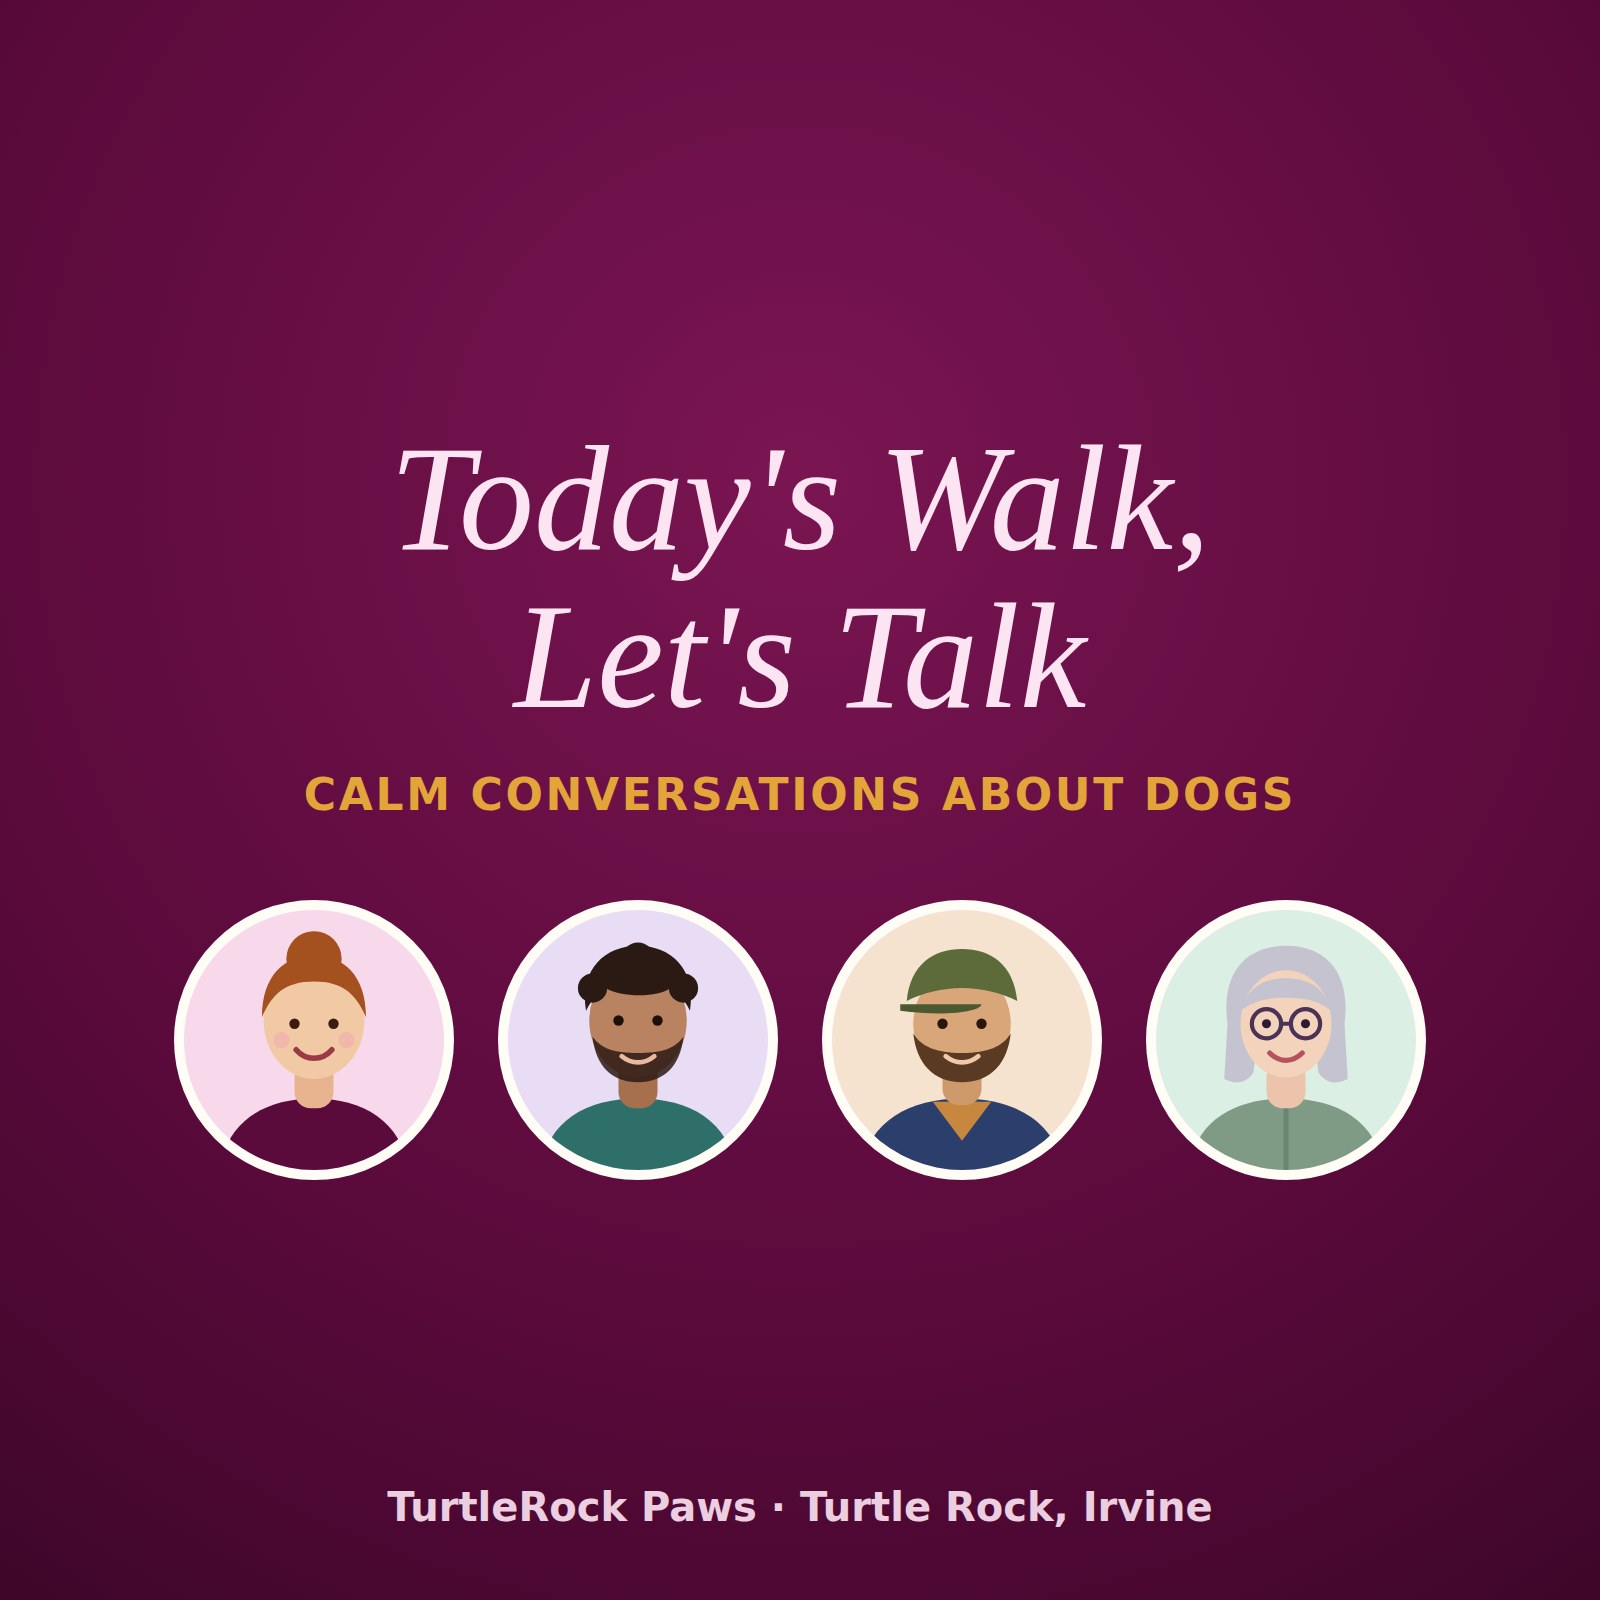
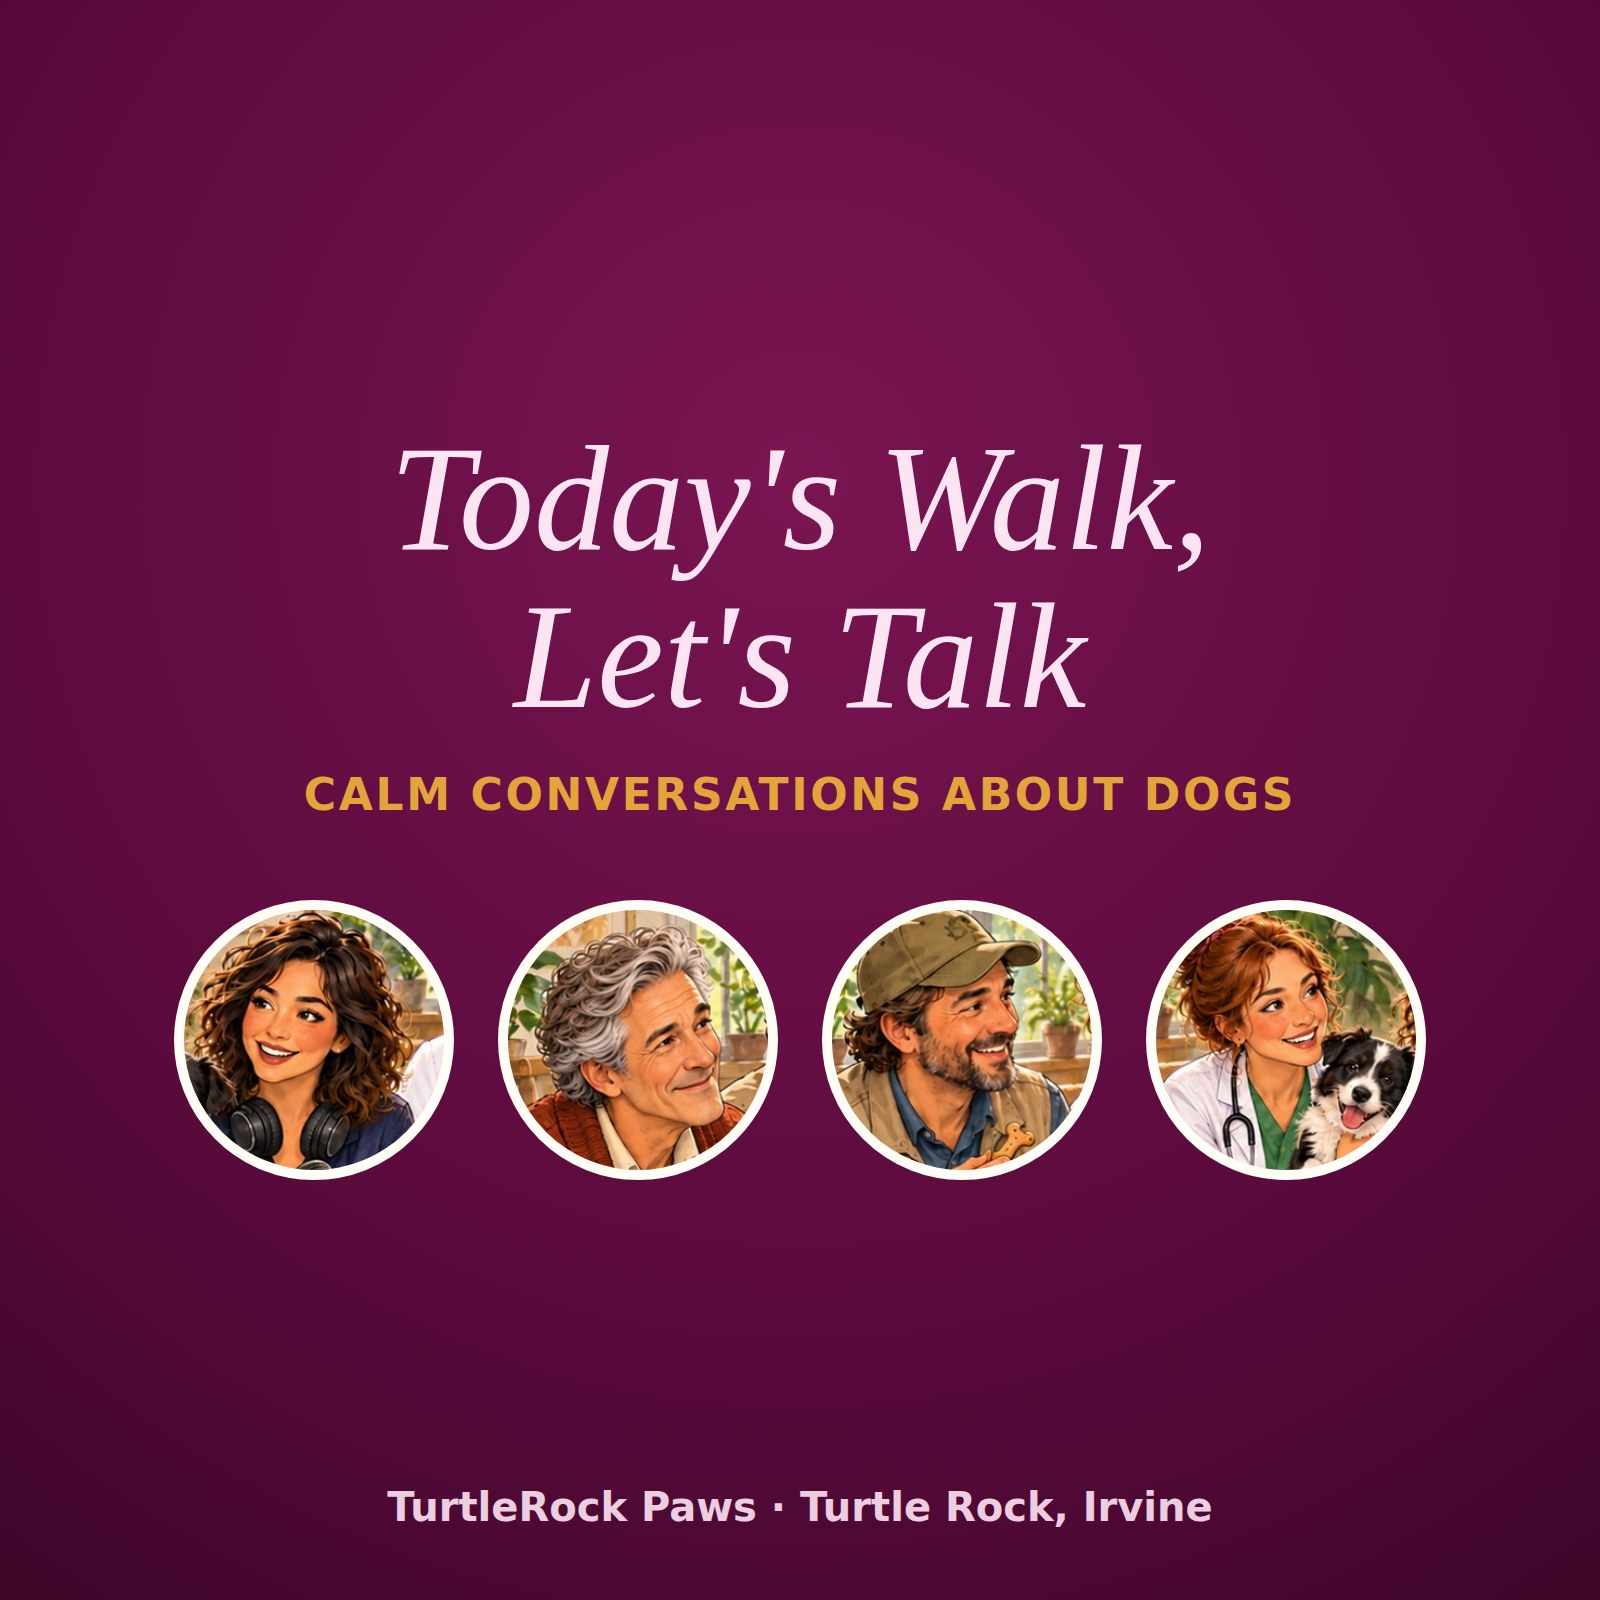
Realistic portraits and cast picture

Changed region(s): [[0.3125, 0.5625, 0.6875, 0.75], [0.7188, 0.5625, 0.9062, 0.75], [0.0938, 0.5625, 0.2812, 0.75]]

diff --git a/player.js b/player.js
@@ -25,14 +25,14 @@
     table.style.setProperty('--cols', cols); table.classList.toggle('multi', n > 4);
     ep.cast.forEach(function (c) {
       var s = el('div', 'seat'); s.dataset.who = c.id;
-      var img = el('img'); img.src = c.id + '.svg'; img.alt = c.name + ', ' + c.role; img.width = 116; img.height = 116; img.decoding = 'async';
+      var img = el('img'); img.src = c.id + '.jpg'; img.alt = c.name + ', ' + c.role; img.width = 116; img.height = 116; img.decoding = 'async';
       s.appendChild(img); s.appendChild(el('span', 'nm', c.name)); s.appendChild(el('span', 'rl', c.role));
       table.appendChild(s);
     });
 
     var bl = $('bench'); bl.textContent = '';
     (BENCH || ep.cast).forEach(function (c) {
-      var li = el('li'); var im = el('img'); im.src = c.id + '.svg'; im.alt = ''; im.width = 84; im.height = 84; im.loading = 'lazy';
+      var li = el('li'); var im = el('img'); im.src = c.id + '.jpg'; im.alt = ''; im.width = 84; im.height = 84; im.loading = 'lazy';
       li.appendChild(im); li.appendChild(el('b', null, c.name)); li.appendChild(el('span', null, c.role)); bl.appendChild(li);
     });
 

diff --git a/style.css b/style.css
@@ -56,7 +56,7 @@ h1{margin:0;font:italic 500 clamp(28px,7vw,44px)/1.12 var(--serif);color:var(--p
 .summary{max-width:46ch;margin:22px auto 0;color:var(--ink)}
 .links{margin-top:14px;display:flex;flex-wrap:wrap;gap:12px;justify-content:center}
 .yt{position:relative;width:min(100%,320px);aspect-ratio:16/9;border:0;border-radius:14px;overflow:hidden;background:#000;cursor:pointer;padding:0}
-.yt img{width:100%;height:100%;object-fit:cover;opacity:.85}
+.yt img{width:100%;height:100%;opacity:.85}
 .yt span{position:absolute;inset:auto 10px 10px 10px;color:#fff;text-align:left;font-weight:650;text-shadow:0 1px 4px #000}
 .yt iframe{width:100%;height:100%;border:0}
 
@@ -116,3 +116,5 @@ h1{margin:0;font:italic 500 clamp(28px,7vw,44px)/1.12 var(--serif);color:var(--p
 .table.multi{max-width:640px}
 .table.multi::before{height:82%}
 .table.multi .seat:nth-child(n){margin-top:0}
+
+.seat img,.bench img{object-fit:cover}

diff --git a/index.html b/index.html
@@ -24,7 +24,7 @@
     <p class="series">Today&rsquo;s Walk, Let&rsquo;s Talk</p>
     <h1 id="title">Loading&hellip;</h1>
     <p class="meta" id="meta"></p>
-    <figure class="hero"><img src="table.jpg" width="1200" height="800" alt="An illustration of friendly people and their dogs gathered around a big round wooden table with coffee mugs, notebooks and a microphone." decoding="async"></figure>
+    <figure class="hero"><img src="table.jpg" width="1400" height="700" alt="An illustration of seven friendly characters and their dogs around a wooden table with coffee mugs, notebooks, a laptop and a microphone: Hal, Ed, Clara, Andria, Mike, Judy and Charles." decoding="async"></figure>
 
     <div class="table" id="table" role="group" aria-label="Voices in this episode"></div>
     <p class="nowspeaking" id="nowspeaking" aria-live="polite">Press play to join the table.</p>
